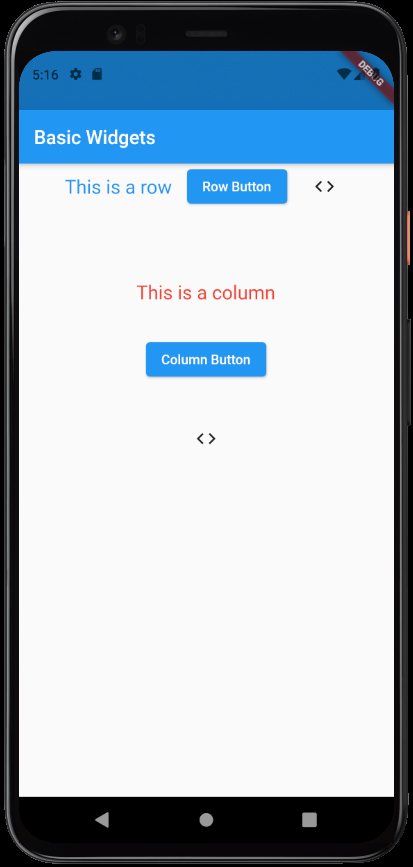
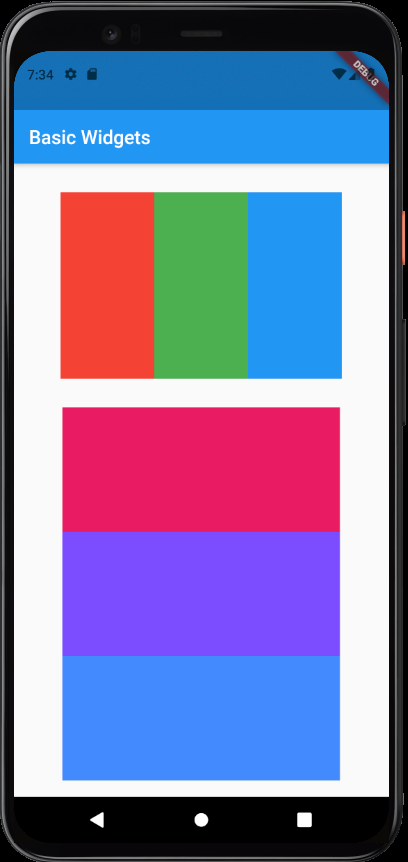
Made the necessary changes

diff --git a/Android_Development/Flutter/Widgets/basic_widgets.md b/Android_Development/Flutter/Widgets/basic_widgets.md
@@ -72,39 +72,56 @@ class _MyHomePageState extends State<MyHomePage> {
   Widget build(BuildContext context) {
     return Scaffold(
       appBar: AppBar(title: Text("Basic Widgets"),),
-      //Here we have an outer column, that has two widgets inside it, a row and a column.
+      //Here we have an outer column, that has four widgets inside it. A row and a column
+      //and two sized boxes for spacing the other two widgets
       body: Column(
         children: [
-        //This is the first widget inside the column. This row has three widgets inside it - text, elevated button and icon button widgets
+          //SizedBox is added to have a space between the row widget and the app bar.
+          SizedBox(height: 30,),
           Row(
             //We have used MainAxisAlignment.center, to center the children widgets along the main axis.
             mainAxisAlignment: MainAxisAlignment.center,
             children: [
-                Text("This is a row",
-                  style: TextStyle(color: Colors.blue,fontSize: 20.0),
-                ),
-                //SizedBox widget is used to add a little spacing between widgets
-                SizedBox(width: 15.0,),
-                ElevatedButton(
-                    onPressed: (){},
-                    child: Text("Row Button"),
-                ),
-                SizedBox(width: 15.0,),
-                IconButton(onPressed: (){}, icon: Icon(Icons.code),)
+              //The children of this row widget are three container widgets with height and width set with respect to the screen and different colors.
+              Container(
+                //Mediaquery is used to set the dimensions with respect to the screen dimensions. 
+                // Here the containers have a height and width that is equal to 1/4th the 
+                //screen's height and width
+                height: MediaQuery.of(context).size.height/4,
+                width: MediaQuery.of(context).size.width/4,
+                decoration: BoxDecoration(color: Colors.red),
+              ),
+              Container(
+                height: MediaQuery.of(context).size.height/4,
+                width: MediaQuery.of(context).size.width/4,
+                decoration: BoxDecoration(color: Colors.green),
+              ),
+              Container(
+                height: MediaQuery.of(context).size.height/4,
+                width: MediaQuery.of(context).size.width/4,
+                decoration: BoxDecoration(color: Colors.blue),
+              )
             ],
           ),
-          SizedBox(height: 75.0,),
-          //This is the second widget inside the outermost column. It also has three children widgets.
+          SizedBox(height: 30,),
+          //This is the column widget It also has three container widgets as children.
           Column(
             children: [
-              Text("This is a column",style: TextStyle(color: Colors.red,fontSize: 20.0),),
-              SizedBox(height: 35.0,),
-              ElevatedButton(
-                onPressed: (){},
-                child: Text("Column Button"),
+              Container(
+                height: MediaQuery.of(context).size.height/6,
+                width: MediaQuery.of(context).size.width/1.35,
+                decoration: BoxDecoration(color: Colors.pink),
               ),
-              SizedBox(height: 35.0,),
-              IconButton(onPressed: (){}, icon: Icon(Icons.code),)
+              Container(
+                height: MediaQuery.of(context).size.height/6,
+                width: MediaQuery.of(context).size.width/1.35,
+                decoration: BoxDecoration(color: Colors.deepPurpleAccent),
+              ),
+              Container(
+                height: MediaQuery.of(context).size.height/6,
+                width: MediaQuery.of(context).size.width/1.35,
+                decoration: BoxDecoration(color: Colors.blueAccent),
+              )
             ],
           )
         ],
@@ -112,7 +129,6 @@ class _MyHomePageState extends State<MyHomePage> {
     );
   }
 }
-
 ```
 The above code results in the following output,
 
